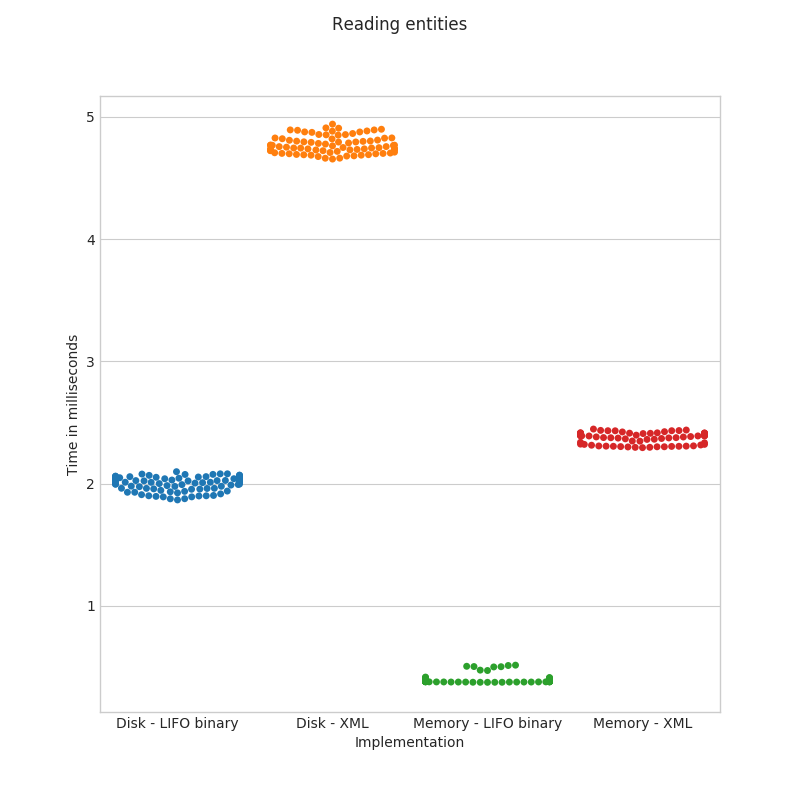
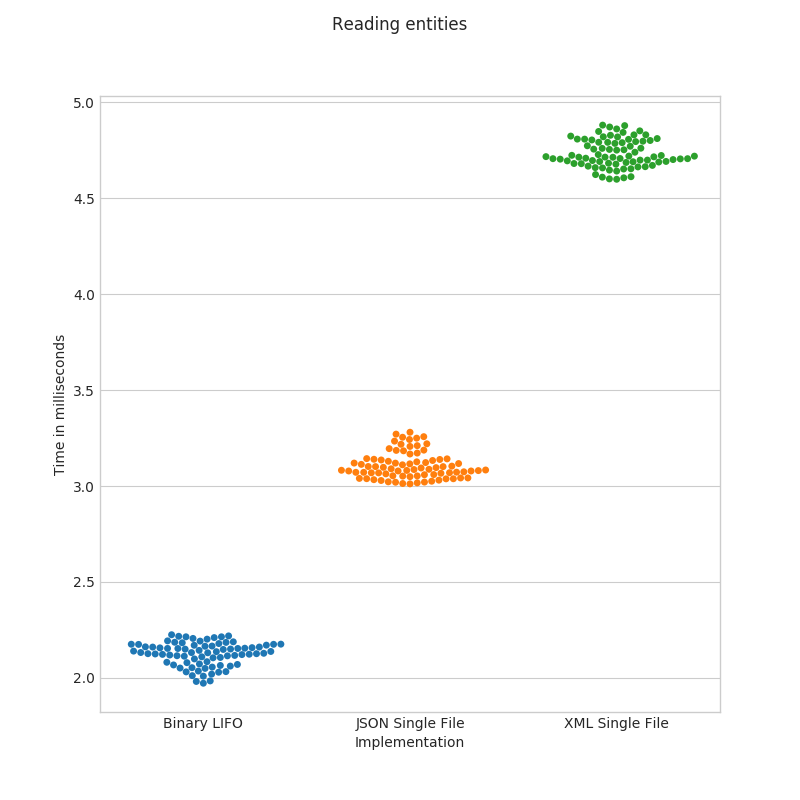
JSON Formatter, adjusted benchmark, added benchmark launch script

diff --git a/Diffstore.Benchmark/Program.cs b/Diffstore.Benchmark/Program.cs
@@ -33,9 +33,9 @@ namespace Diffstore.Benchmark
 
             public void Add(string bench, string impl, float[] results)
             {
-                if (!Value.ContainsKey(bench)) 
+                if (!Value.ContainsKey(bench))
                     Value.Add(bench, new Dictionary<string, float[]>());
-                
+
                 Value[bench].Add(impl, results);
             }
         }
@@ -65,28 +65,22 @@ namespace Diffstore.Benchmark
             };
 
             var implementations = new Dictionary<string, IDiffstore<long, SampleData>>() {
-                { "Memory - LIFO binary", new DiffstoreBuilder<long, SampleData>()
-                    .WithMemoryStorage()
-                    .WithFileBasedEntities()
-                    .WithLastFirstOptimizedSnapshots()
-                    .Setup()
-                },
-                { "Memory - XML", new DiffstoreBuilder<long, SampleData>()
-                    .WithMemoryStorage()
-                    .WithFileBasedEntities(FileFormat.XML)
-                    .WithSingleFileSnapshots(FileFormat.XML)
-                    .Setup()
-                },
-                { "Disk - LIFO binary", new DiffstoreBuilder<long, SampleData>()
+                { "Binary LIFO", new DiffstoreBuilder<long, SampleData>()
                     .WithDiskStorage()
                     .WithFileBasedEntities()
                     .WithLastFirstOptimizedSnapshots()
                     .Setup()
                 },
-                { "Disk - XML", new DiffstoreBuilder<long, SampleData>()
+                { "XML Single File", new DiffstoreBuilder<long, SampleData>()
                     .WithDiskStorage()
                     .WithFileBasedEntities(FileFormat.XML)
                     .WithSingleFileSnapshots(FileFormat.XML)
+                    .Setup()
+                },
+                { "JSON Single File", new DiffstoreBuilder<long, SampleData>()
+                    .WithDiskStorage()
+                    .WithFileBasedEntities(FileFormat.JSON)
+                    .WithSingleFileSnapshots(FileFormat.JSON)
                     .Setup()
                 }
             };
@@ -107,7 +101,8 @@ namespace Diffstore.Benchmark
             Cleanup();
         }
 
-        static void Cleanup() {
+        static void Cleanup()
+        {
             if (Directory.Exists("storage")) Directory.Delete("storage", true);
         }
 
@@ -116,7 +111,7 @@ namespace Diffstore.Benchmark
             var times = new float[count];
             for (int i = 1; i <= count; i++)
                 times[i - 1] = MeasureSingle(() => step(i));
-            
+
             return times;
         }
 

diff --git a/Diffstore/DiffstoreBuilder.cs b/Diffstore/DiffstoreBuilder.cs
@@ -5,6 +5,7 @@ using System.Xml;
 using Diffstore.Entities;
 using Diffstore.Entities.Filesystem;
 using Diffstore.Serialization;
+using Diffstore.Serialization.JSON;
 using Diffstore.Serialization.XML;
 using Diffstore.Snapshots;
 using Diffstore.Snapshots.Filesystem;
@@ -57,17 +58,13 @@ namespace Diffstore
             switch (format)
             {
                 case FileFormat.Binary:
-                    return WithFileBasedEntities(options, fileSystem);
+                    return WithFileBasedEntities(FastBinaryFormatter.Instance, options, fileSystem);
                 case FileFormat.XML:
-                    var formatter = new XmlFormatter();
-                    var entityIO = new FilesystemEntityReaderWriter
-                        <TKey, XmlDocumentAdapter, XmlWriterAdapter>
-                        (fileSystem, formatter, options);
-                    em = new EntityManager<TKey, TValue, XmlDocumentAdapter, XmlWriterAdapter>
-                        (formatter, entityIO);
-                    return this;
+                    return WithFileBasedEntities(XmlFormatter.Instance, options, fileSystem);
+                case FileFormat.JSON:
+                    return WithFileBasedEntities(JsonFormatter.Instance, options, fileSystem);
                 default:
-                    throw new NotImplementedException();
+                    throw new InvalidOperationException("Unsupported format");
             }
         }
 
@@ -103,12 +100,17 @@ namespace Diffstore
         {
             (fileSystem, options) = PrepareFileStorage(fileSystem, options);
 
-            switch(format) {
-                case FileFormat.XML: 
+            switch (format)
+            {
+                case FileFormat.XML:
                     sm = new SingleFileSnapshotManager<TKey, TValue, XmlDocumentAdapter, XmlWriterAdapter>
                     (options, new XmlFormatter(), fileSystem); break;
+                case FileFormat.JSON:
+                    sm = new SingleFileSnapshotManager<TKey, TValue, JsonReaderAdapter, JsonWriterAdapter>
+                    (options, JsonFormatter.Instance, fileSystem); break;
                 default:
-                    throw new NotImplementedException();
+                    sm = new SingleFileSnapshotManager<TKey, TValue, BinaryReader, BinaryWriter>
+                    (options, FastBinaryFormatter.Instance, fileSystem); break;
             }
 
             return this;

diff --git a/Diffstore/Serialization/JSON/JsonFormatter.cs b/Diffstore/Serialization/JSON/JsonFormatter.cs
@@ -1,0 +1,55 @@
+using System;
+using System.Collections;
+using System.Collections.Generic;
+using System.IO;
+using Diffstore.Utils;
+using Newtonsoft.Json;
+using Newtonsoft.Json.Linq;
+
+namespace Diffstore.Serialization.JSON
+{
+    public class JsonFormatter : IFormatter<JsonReaderAdapter, JsonWriterAdapter>
+    {
+        private static JsonFormatter _instance = new JsonFormatter();
+        public static JsonFormatter Instance => _instance;
+
+        public object Deserialize(Type type, JsonReaderAdapter stream, string fieldName)
+        {
+            var obj = stream.Instance;
+            var fieldValue = obj[fieldName];
+            return fieldValue.ToObject(type);
+        }
+
+        public void Serialize(object value, JsonWriterAdapter stream, string fieldName)
+        {
+            var instance = stream.Instance;
+            instance.WritePropertyName(fieldName);
+            switch (value)
+            {
+                case null: instance.WriteNull(); break;
+                case IList list: SerializeList(list, instance); break;
+                case IDictionary dict: SerializeDictionary(dict, instance); break;
+                default: instance.WriteValue(value); break;
+            }
+        }
+
+        private void SerializeList(IList list, JsonWriter writer)
+        {
+            writer.WriteStartArray();
+            foreach (var item in list)
+                writer.WriteValue(item);
+            writer.WriteEndArray();
+        }
+
+        private void SerializeDictionary(IDictionary dict, JsonWriter writer)
+        {
+            writer.WriteStartObject();
+            foreach(var pair in dict.ZipPairs())
+            {
+                writer.WritePropertyName(pair.Item1.ToString());
+                writer.WriteValue(pair.Item2);
+            }
+            writer.WriteEndObject();
+        }
+    }
+}

diff --git a/Diffstore/Utils/ReflectionUtils.cs b/Diffstore/Utils/ReflectionUtils.cs
@@ -7,18 +7,39 @@ namespace Diffstore.Utils
 {
     public static class ReflectionUtils
     {
-        public static IEnumerable<Type> GetImplementingTypes(this Type[] types, 
+        public static IEnumerable<Type> GetImplementingTypes(this Type[] types,
             Type interfaceType) =>
             types.Where(type => type.GetInterfaces().Contains(interfaceType));
 
         public static bool IsGenericList(this Type type) =>
-            type.GetTypeInfo().IsGenericType && 
+            type.GetTypeInfo().IsGenericType &&
             (type.GetGenericTypeDefinition() == typeof(IList<>) ||
             type.GetGenericTypeDefinition() == typeof(List<>));
 
         public static bool IsGenericDictionary(this Type type) =>
-            type.GetTypeInfo().IsGenericType && 
+            type.GetTypeInfo().IsGenericType &&
             (type.GetGenericTypeDefinition() == typeof(IDictionary<,>) ||
             type.GetGenericTypeDefinition() == typeof(Dictionary<,>));
+
+        public static bool IsNumericType(this Type type)
+        {
+            switch (Type.GetTypeCode(type))
+            {
+                case TypeCode.Byte:
+                case TypeCode.SByte:
+                case TypeCode.UInt16:
+                case TypeCode.UInt32:
+                case TypeCode.UInt64:
+                case TypeCode.Int16:
+                case TypeCode.Int32:
+                case TypeCode.Int64:
+                case TypeCode.Decimal:
+                case TypeCode.Double:
+                case TypeCode.Single:
+                    return true;
+                default:
+                    return false;
+            }
+        }
     }
 }

diff --git a/Diffstore/Serialization/JSON/JsonWriterAdapter.cs b/Diffstore/Serialization/JSON/JsonWriterAdapter.cs
@@ -1,0 +1,21 @@
+using System;
+using System.IO;
+using Newtonsoft.Json;
+
+namespace Diffstore.Serialization.JSON
+{
+    public class JsonWriterAdapter : IDisposable
+    {
+        private JsonWriter _instance;
+        public JsonWriter Instance => _instance;
+        
+        public JsonWriterAdapter(Stream stream) {
+            _instance = new JsonTextWriter(new StreamWriter(stream));
+            _instance.CloseOutput = true;
+            _instance.AutoCompleteOnClose = true;
+            _instance.WriteStartObject();
+        }
+
+        public void Dispose() => _instance.Close();
+    }
+}

diff --git a/Diffstore/Serialization/JSON/JsonReaderAdapter.cs b/Diffstore/Serialization/JSON/JsonReaderAdapter.cs
@@ -1,0 +1,22 @@
+using System;
+using System.IO;
+using System.Text;
+using Diffstore.Utils;
+using Newtonsoft.Json;
+using Newtonsoft.Json.Linq;
+
+namespace Diffstore.Serialization.JSON
+{
+    public class JsonReaderAdapter : IDisposable
+    {
+        private JObject _instance;
+        public JObject Instance => _instance;
+        
+        public JsonReaderAdapter(Stream stream) {
+            var content = Encoding.UTF8.GetString(stream.ReadAllBytes());
+            _instance = JObject.Parse(content);
+        }
+
+        public void Dispose() => _instance = null;
+    }
+}

diff --git a/Diffstore/Utils/ConstructorCache.cs b/Diffstore/Utils/ConstructorCache.cs
@@ -24,10 +24,13 @@ namespace Diffstore.Utils
         /// <returns>New instance of T</returns>
         public static object Create(Type type)
         {
-            if (!_delegates.ContainsKey(type))
-                _delegates.Add(type, type.DelegateForCreateInstance());
+            lock (_delegates)
+            {
+                if (!_delegates.ContainsKey(type))
+                    _delegates.Add(type, type.DelegateForCreateInstance());
 
-            return _delegates[type]();
+                return _delegates[type]();
+            }
         }
     }
 }

diff --git a/Diffstore/Serialization/XML/XmlFormatter.cs b/Diffstore/Serialization/XML/XmlFormatter.cs
@@ -10,6 +10,9 @@ namespace Diffstore.Serialization.XML
 {
     public class XmlFormatter : IFormatter<XmlDocumentAdapter, XmlWriterAdapter>
     {
+        private static XmlFormatter _instance = new XmlFormatter();
+        public static XmlFormatter Instance => _instance;
+
         private Dictionary<Type, Func<string, object>> _readers =
             new Dictionary<Type, Func<string, object>>() {
                 { typeof(bool), s => bool.Parse(s) },

diff --git a/Diffstore.Tests/Serialization/JsonFormatterTest.cs b/Diffstore.Tests/Serialization/JsonFormatterTest.cs
@@ -1,0 +1,15 @@
+using Diffstore.Serialization;
+using Diffstore.Serialization.JSON;
+using Xunit;
+
+namespace Diffstore.Tests.Serialization
+{
+    public class JsonFormatterTest : IFormatterTest<JsonReaderAdapter, JsonWriterAdapter>
+    {
+        protected override IFormatter<JsonReaderAdapter, JsonWriterAdapter> Build()
+            => JsonFormatter.Instance;
+
+        [Fact]
+        public override void Test() => base.Test();
+    }
+}

diff --git a/Diffstore.Tests/Serialization/XmlFormatterTest.cs b/Diffstore.Tests/Serialization/XmlFormatterTest.cs
@@ -7,7 +7,7 @@ namespace Diffstore.Tests.Serialization
     public class XmlFormatterTest : IFormatterTest<XmlDocumentAdapter, XmlWriterAdapter>
     {
         protected override IFormatter<XmlDocumentAdapter, XmlWriterAdapter> Build() =>
-            new XmlFormatter();
+            XmlFormatter.Instance;
 
         [Fact]
         public override void Test() => base.Test();

diff --git a/Diffstore/Snapshots/Filesystem/SingleFileSnapshotManager.cs b/Diffstore/Snapshots/Filesystem/SingleFileSnapshotManager.cs
@@ -30,10 +30,7 @@ namespace Diffstore.Snapshots.Filesystem
 
         public bool Any(TKey key) => GetExistingFiles(key).Any();
 
-        public void Dispose()
-        {
-            fileSystem.Dispose();
-        }
+        public void Dispose() => fileSystem.Dispose();
 
         public void Drop(TKey entityKey) =>
             GetExistingFiles(entityKey).ToList()
